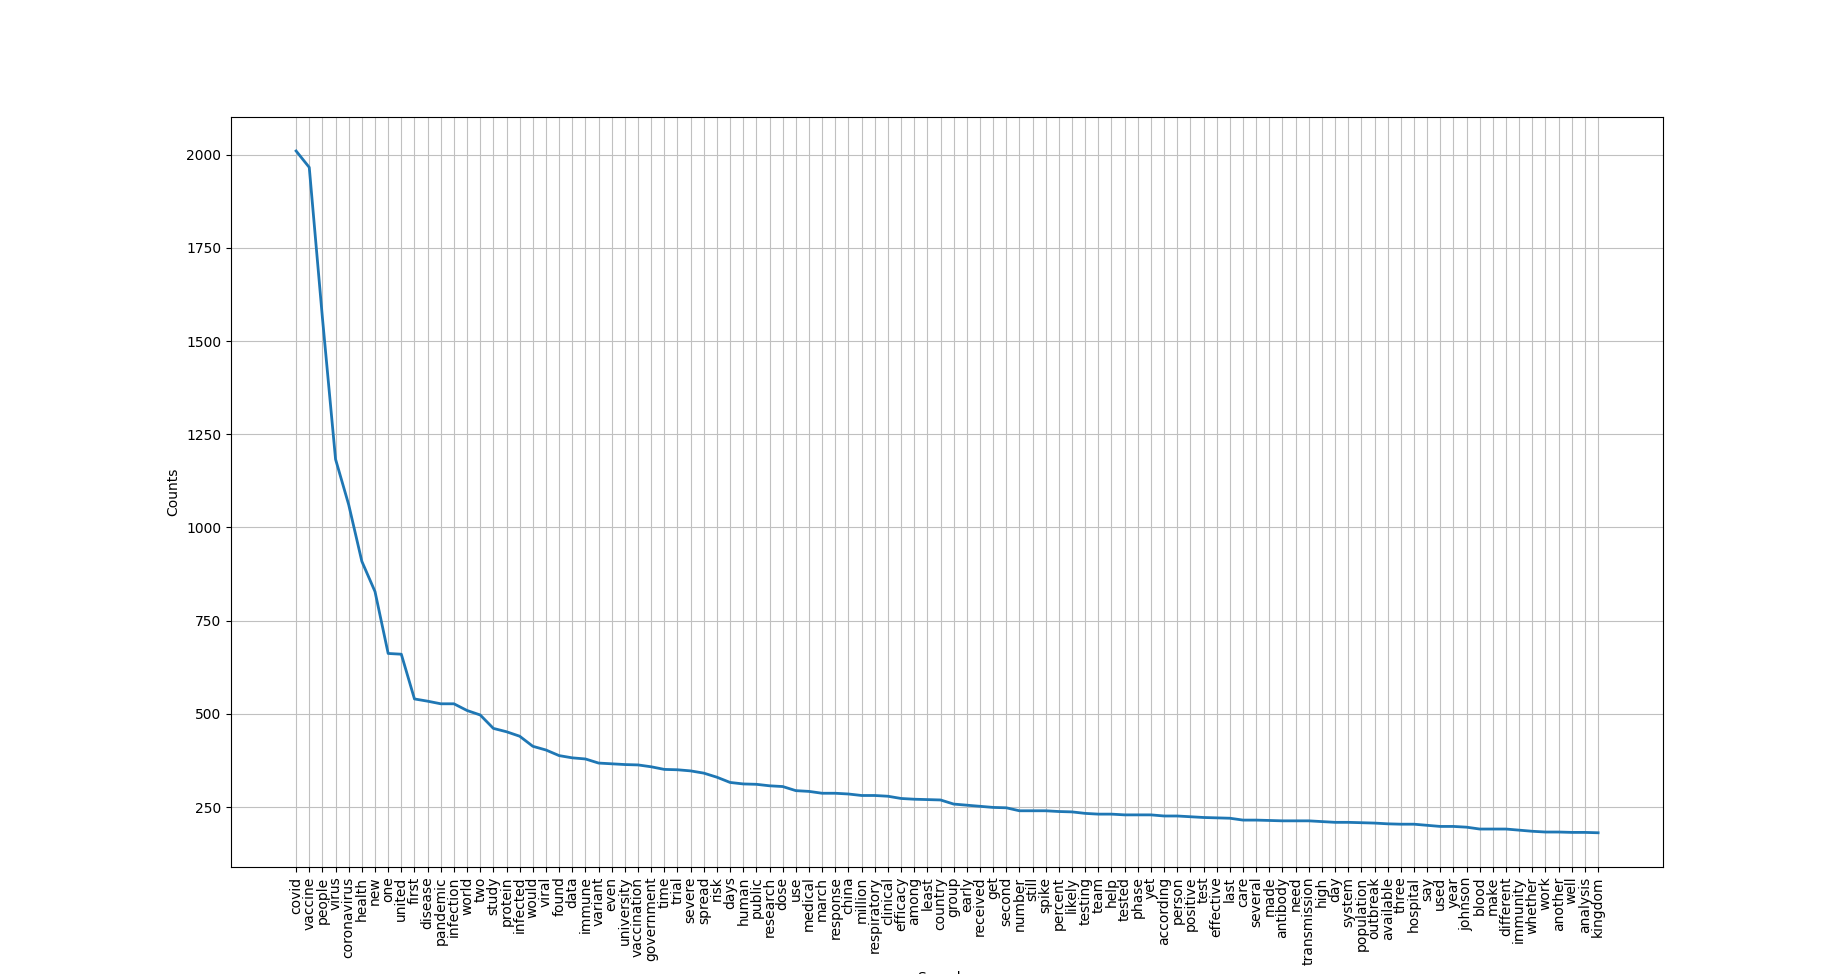
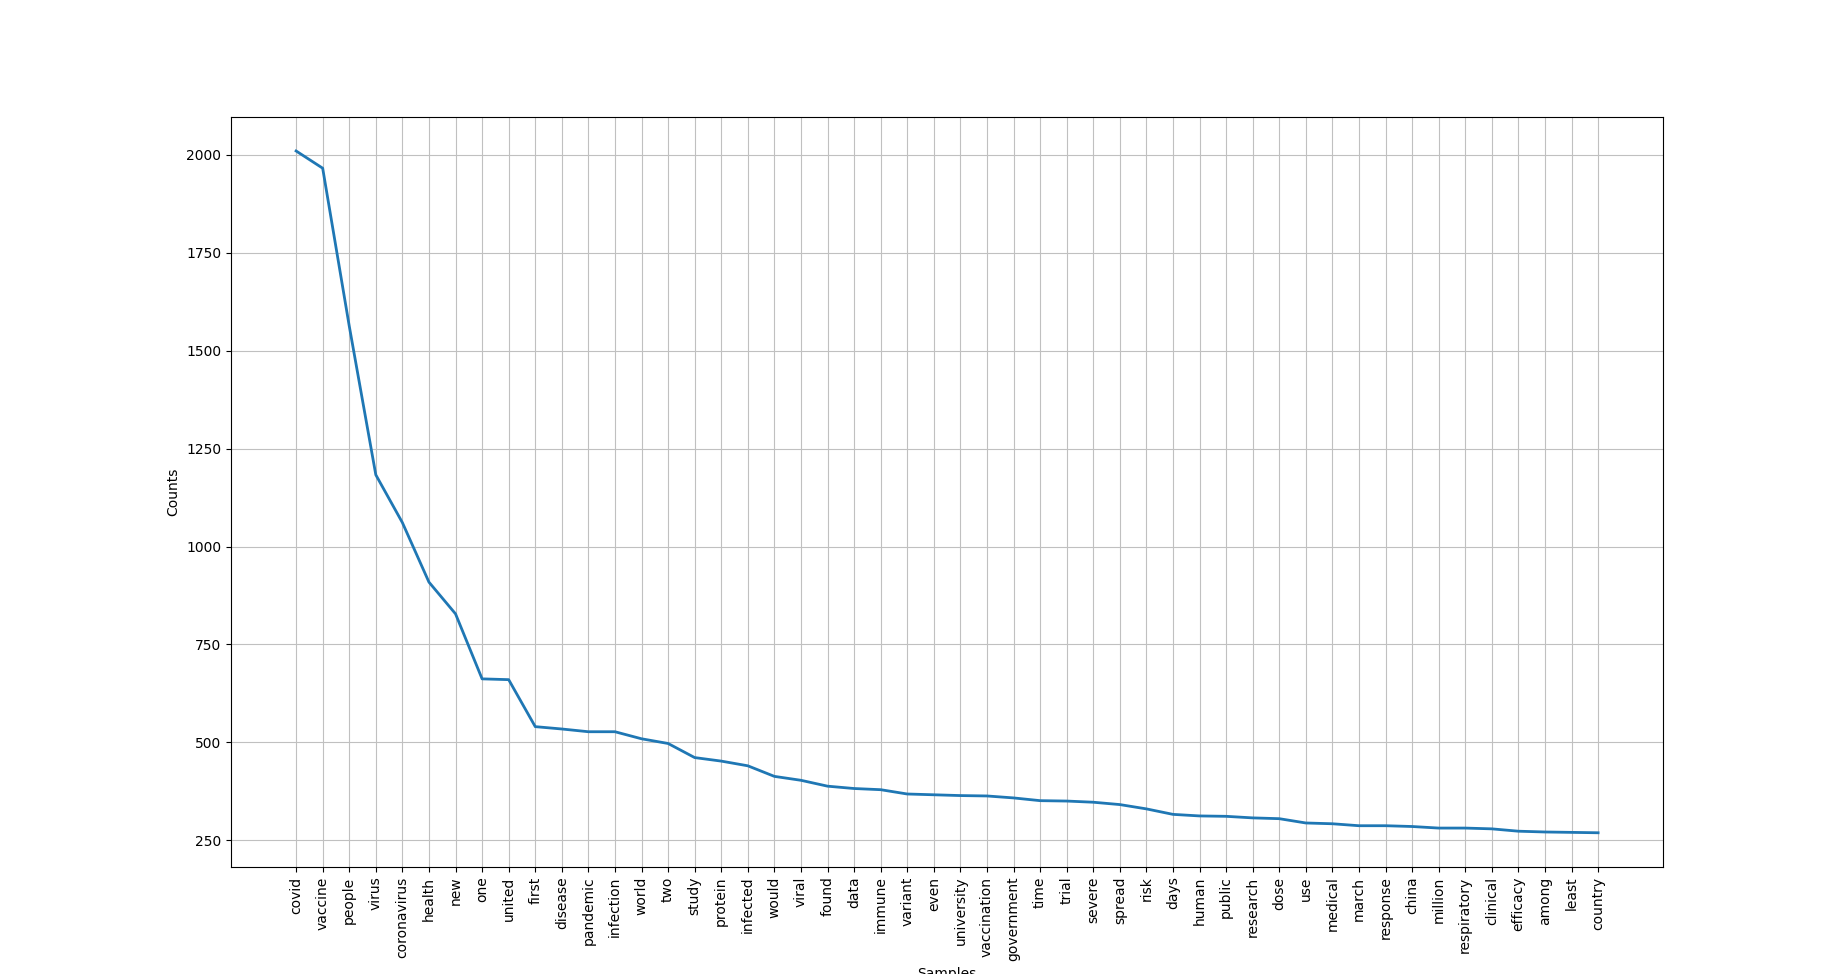
updated graphs

diff --git a/English/functions.py b/English/functions.py
@@ -165,6 +165,6 @@ def wordcloud(words,POS_tagged):
 def Frequency_graphs(tokens):
    
     fd = nltk.FreqDist(tokens)
-    #graph will have 100 entries
-    fd.plot(100,cumulative=False)
+    #graph will have 50 entries
+    fd.plot(50,cumulative=False)
    

diff --git a/README.md b/README.md
@@ -51,7 +51,7 @@ The above wordcloud is of the data collected through around 200 news articles re
 
 ![Figure_1](https://user-images.githubusercontent.com/71181616/123856548-d8986d80-d93e-11eb-920b-b61a8083a96c.png)
 
-The above wordloud is about the Indian classic 'Mahabharata'. It comprises of incidences that took place before, during and after the 'Mahabharata'. 
+The above wordloud is about the Indian classic 'Mahabharata'. It comprises some of the incidences that took place during the 'Mahabharata'.
 
 The analysis.pdf contains the overview of the algorithms used and analysis of the Frequency Graphs at various stages.
 The data folder has all the tokens saved at different stages.
